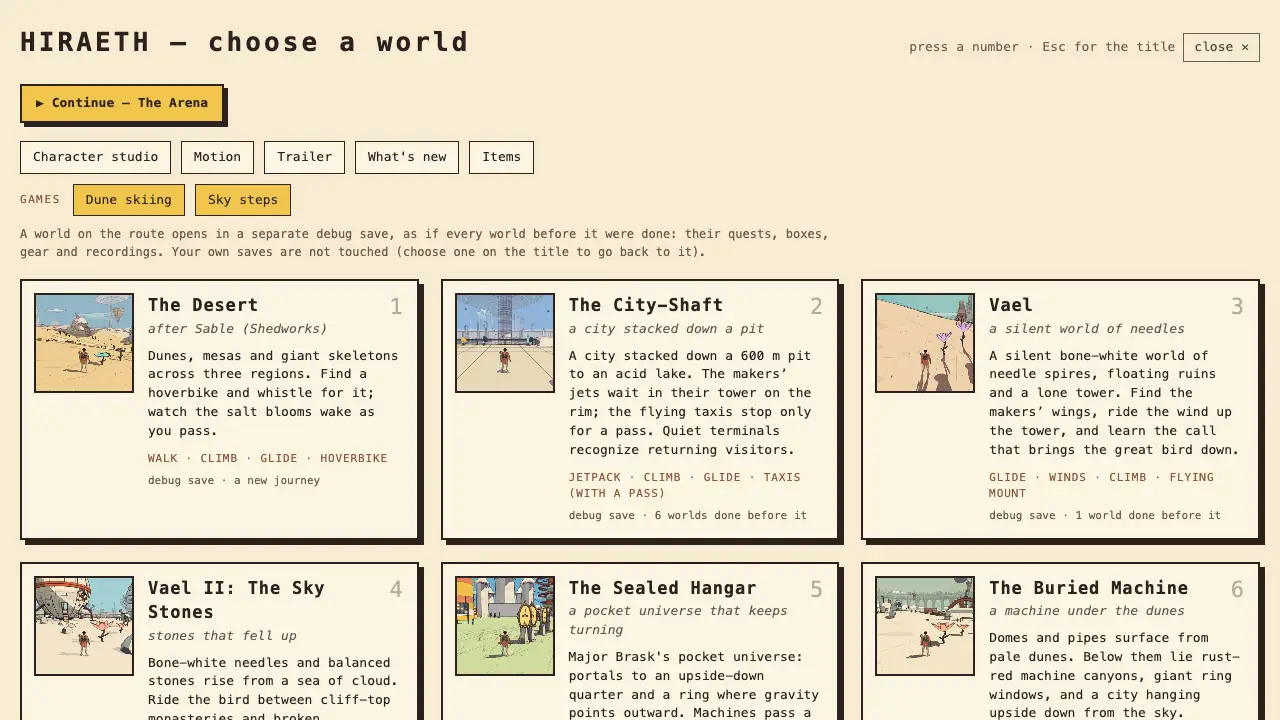
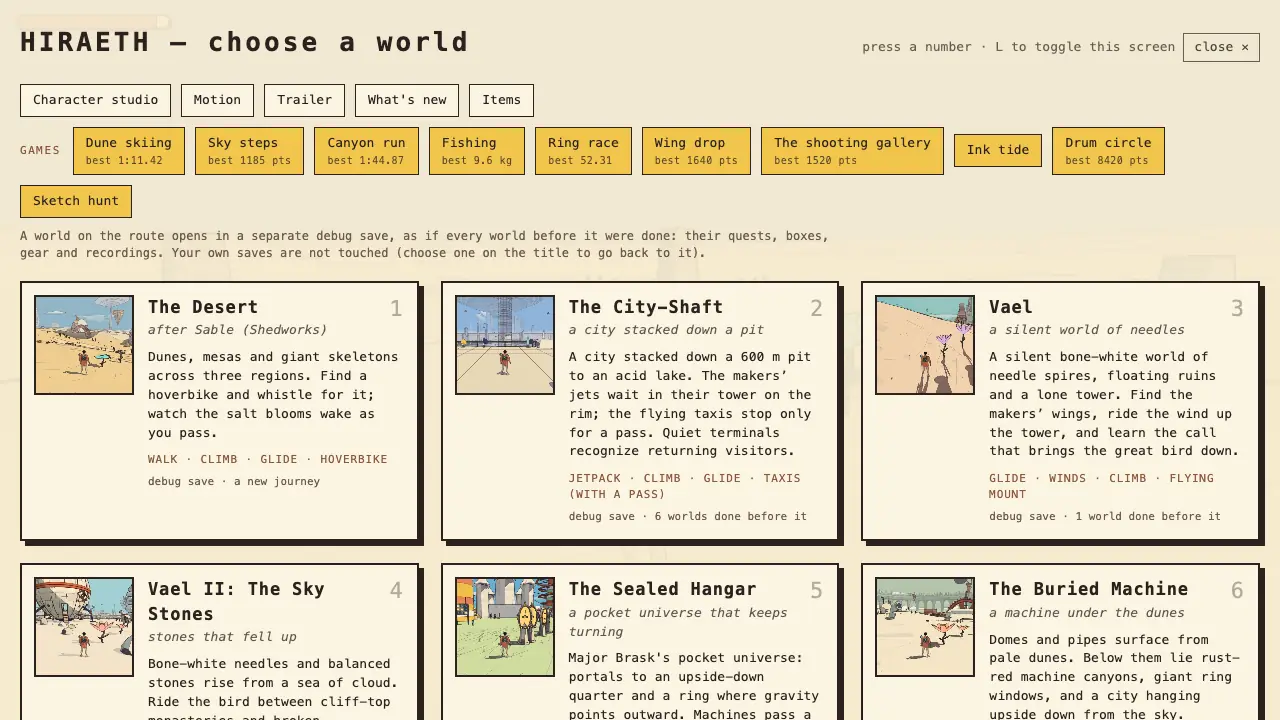
Games leftovers: arcade signs for Dune skiing and Sky steps, Ink tide foes leave no materials behind, a stronger Ring race boost, the Games row picture with bests (v0.92)
- Dune skiing's sign on the golden dune crest NW of the Desert start, Sky steps' on the
  Sky Stones' start plateau west rim (markers lists); both checked in headless Chrome:
  'play ...' wins the button from every side, Quit returns by the sign
- Telegraph: a shared outline material, its own fill released (materials.js releaseMaterial)
  with its foe; the shade's body material too; test: 200 foes leave the count flat
- Ring race boost x1.28 for x2.1 burn (was x1.22 / x2): boosting on straights with a
  quarter tank kept wins ~3.9 s of 53.9, never dry; greedy boosting runs dry; tested
- games-row picture retaken with eight bests

diff --git a/src/changelog-media.js b/src/changelog-media.js
@@ -119,7 +119,7 @@ const GIFTS = ['stun', 'fire', 'cell', 'coil', 'lantern', 'lens', 'bell', 'shell
 export const CHANGELOG_MEDIA = {
   '0.92': [
     { match: 'Games: the worlds list (Debug) has a row of small games', shots: [
-      { name: 'games-row', only: 'after', caption: 'The worlds list: the Games row under the pages', from: 'headless Chrome against this branch’s own dev server, High, 1280 × 720 (7 October), played by a script' },
+      { name: 'games-row', only: 'after', caption: 'The worlds list: the ten games under the pages, each one’s best under its name', from: 'headless Chrome against this branch’s own dev server, High, 1280 × 720 (8 October), a save with eight bests' },
       { name: 'ski-card', only: 'after', caption: 'A game’s start card: its rules, its controls (here a pad’s), the best so far', from: 'headless Chrome against this branch’s own dev server, High, 1280 × 720 (7 October), played by a script' },
       { name: 'steps-results', only: 'after', caption: 'The results: the score, how it was made, a new best stamped', from: 'headless Chrome against this branch’s own dev server, High, 1280 × 720 (7 October), played by a script' },
     ], see: 'Open the worlds list (Debug on the title, or L in play) and pick a game in the Games row, or open ?game=ski or ?game=platformer.' },
@@ -183,7 +183,7 @@ export const CHANGELOG_MEDIA = {
     { match: 'Games, a polish pass', shots: [
       { name: 'touch-ski', only: 'after', caption: 'Dune skiing on a phone held sideways: only the stick, the jump (pop) and run (the tuck)', from: 'headless Chrome against this branch’s own dev server, High, 844 × 390, Handheld, touch emulated (8 October), played by a script' },
     ], see: 'Finish a game with no score: no stamp; beat your best: “New best!”. The worlds list (Debug) shows the bests in the Games row.' },
-    { match: 'Ring race: hold Shift or RB / R1', see: '?game=rings: hold RT / R2 (Space) and add RB / R1 (Shift): about 31 m/s becomes 38, the tank lasting about 5 s instead of 11.' },
+    { match: 'Ring race: hold Shift or RB / R1', see: '?game=rings: hold RT / R2 (Space) and add RB / R1 (Shift): about 31 m/s becomes 40, the tank lasting about 5 s instead of 11.' },
     { match: 'Wing drop: after each landing', shots: [
       { name: 'wingdrop-landing', caption: 'The last drop landed: before, the camera low over the mesa behind the card; after, up behind you, the bullseye beyond, you left of the card', from: 'headless Chrome against this branch’s own dev server, High, 1280 × 720 (8 October), landings set by a script' },
       { name: 'wingdrop-star', only: 'after', caption: 'A scripted pilot (wingdrop.js starPilot) through the high star of the first thermal, flying the virtual pad', from: 'headless Chrome against this branch’s own dev server, High, 1280 × 720 (8 October), flown by a script' },
@@ -191,6 +191,15 @@ export const CHANGELOG_MEDIA = {
     { match: 'Ink tide’s longer blade is drawn longer', shots: [
       { name: 'gallery-bells', caption: 'The shooting gallery, aiming: the bells up by the valance before, down over the rails after', from: 'headless Chrome against this branch’s own dev server, High, 1280 × 720 (8 October), played by a script' },
     ], see: '?game=waves: take the Longer blade boon after the first wave and watch the blade; ?game=sketchhunt: raise the sketchbook at someone with a passer-by in between.' },
+    { match: 'Arcade signs for the last two games', shots: [
+      { name: 'sign-ski', only: 'after', caption: 'Dune skiing’s sign on the golden dune’s crest, the Desert’s skeletons and mesas beyond', from: 'headless Chrome against this branch’s own dev server, High, 1280 × 720 (8 October)' },
+      { name: 'sign-steps', only: 'after', caption: 'Sky steps’ sign on the start plateau’s west rim, a mushroom table and the monastery cliff beyond', from: 'headless Chrome against this branch’s own dev server, High, 1280 × 720 (8 October)' },
+    ], numbers: [{ title: 'Ring race: a scripted pilot’s time round the course (the boost ×1.22 for ×2 the burn before, ×1.28 for ×2.1 after)', unit: 's', better: 'lower', device: 'any (Node, 60 fps)', rows: [
+      { where: 'no boost', before: 53.9, after: 53.9 },
+      { where: 'boost on the straights, a quarter of the tank kept (never dry)', before: 50.7, after: 50.0 },
+      { where: 'boost every straight to the last drop (dry 5 s before, 4.5 after)', before: 52.5, after: 51.5 },
+    ], source: 'tests/rings.test.js (flyCourse with a boost policy)' }],
+      see: 'In the Desert, climb the tall dune north-west of the start (?level=desert, about x −108, z 124); in the Sky Stones (?level=arzach2), walk to the start plateau’s west rim.' },
   ],
   '0.91': [
     { match: 'Gadgets: things to carry besides the backpack', shots: [

diff --git a/tests/rings.test.js b/tests/rings.test.js
@@ -141,21 +141,39 @@ test('the stick: forward dives, back climbs, right banks and turns right', () =>
 });
 
 /** Fly the course with the pilot at a frame rate: the race's result. */
-function flyCourse(fps, secs = 140) {
+function flyCourse(fps, secs = 140, boost = null) {
   const dt = 1 / fps;
   const F = newFlyer(V(PAD.x, PAD.y, PAD.z), Math.atan2(RINGS[0].c.x - PAD.x, RINGS[0].c.z - PAD.z));
   const R = newRace(RINGS.length);
-  let t = 0, crashes = 0, minFuel = 1, safe = 0;
+  let t = 0, crashes = 0, minFuel = 1, safe = 0, dry = 0;
   while (!R.done && t < secs) {
     const p0 = F.pos.clone(), wasPad = F.pad;
-    flyStep(F, botInput(F, RINGS, R), dt);
+    const inp = botInput(F, RINGS, R);
+    if (boost && !F.pad) inp.boost = boost(F, inp, R);
+    flyStep(F, inp, dt);
+    if (!F.pad && F.fuel <= 0) dry += dt;
     if (wasPad && !F.pad) safe = 0.6;
     for (const e of raceStep(R, RINGS, p0, F.pos)) if (e.kind === 'pass') F.fuel = Math.min(1, F.fuel + RACE.topUp);
     if ((safe -= dt) <= 0 && hitAt(F.pos, FIELD)) crashes++;
     minFuel = Math.min(minFuel, F.fuel);
     t += dt;
   }
-  return { R, t, crashes, minFuel };
+  return { R, t, crashes, minFuel, dry };
+}
+
+/** Boost on the straights (lined up, the ring 25 m off or more) while the tank holds more than `reserve`. */
+const onStraights = (reserve) => (F, inp, R) =>
+  Math.abs(inp.x) < 0.35 && Math.abs(inp.y) < 0.35 && F.pos.distanceTo(RINGS[R.next].c) > 25 && F.fuel > reserve;
+
+for (const fps of [60, 30]) {
+  test(`the boost used wisely wins a fair margin and never runs dry; greedily it runs dry (${fps} fps)`, () => {
+    const plain = flyCourse(fps), wise = flyCourse(fps, 140, onStraights(0.25)), greedy = flyCourse(fps, 140, onStraights(0));
+    assert.ok(wise.R.done && wise.R.missed === 0 && wise.crashes === 0, 'the boosting pilot still flies it clean');
+    assert.equal(wise.dry, 0, `never dry (min ${wise.minFuel.toFixed(2)})`);
+    const gain = plain.t - wise.t;
+    assert.ok(gain > 3 && gain < 7, `boosting wins ${gain.toFixed(1)} s (${plain.t.toFixed(1)} → ${wise.t.toFixed(1)})`);
+    assert.ok(greedy.dry > 1 && greedy.t > wise.t, `to the last drop: dry ${greedy.dry.toFixed(1)} s, ${greedy.t.toFixed(1)} s`);
+  });
 }
 
 for (const fps of [120, 60, 30]) {

diff --git a/src/changelog.js b/src/changelog.js
@@ -27,6 +27,7 @@ export const CHANGELOG = [
     'Ring race: hold Shift or RB / R1 (run, on a touch screen) to boost: faster along the nose, for a heavier burn of the tank. Space or RT / R2 alone is the thrust.',
     'Wing drop: after each landing the camera rises behind you and looks down over you at the bullseye, and on the last drop you stand clear of the results. The star gates are a little wider, and a thermal’s swirls no longer smear across the view while you circle inside it.',
     'Ink tide’s longer blade is drawn longer, not only cutting further; the shooting gallery’s bells hang lower, in reach over the rails; the sketch hunt’s readout sees people standing in the way, as the sketch does; and the drum circle’s sign in the desert stands a few steps from the child by the fire, so the button plays the game.',
+    'Arcade signs for the last two games: Dune skiing’s on the crest of the tall golden dune north-west of where you wake in the Desert, Sky steps’ on the west rim of the Sky Stones’ start plateau, looking out at the stones in the cloud. The Ring race’s boost is a little stronger (40 m/s instead of 38): used on the straights with some fuel kept back, it wins about four seconds a run.',
   ] },
   { v: '0.91', date: '2026-10-08', items: [
     'Gadgets: things to carry besides the backpack, ten of them, each with its own bay in the Gadget Yard. Hold one in hand and Y / △ uses it (T, or the middle mouse button; ◆ on a touch screen). D-pad up changes it (B), and held a moment it opens a wheel: point the stick at one and let go. With nothing in hand Y / △ still sends the scout. A small card in the lower left shows what is in hand.',

diff --git a/tests/minigames.test.js b/tests/minigames.test.js
@@ -328,3 +328,20 @@ test('the course can be played through to the gate, at any frame rate, with no f
   assert.equal(PLAT_COURSE.coins.length, 40);
   assert.ok(timeBonus(30) > timeBonus(50) && timeBonus(200) === 0);
 });
+
+test('arcade signs: Dune skiing on a desert dune crest off the story\'s way, Sky steps on Vael II\'s start plateau', async () => {
+  const { TITLES } = await import('../src/levels/names.js');
+  const { desertHeight } = await import('../src/desert-landmarks.js');
+  const { STORY } = await import('../src/desert-sites.js');
+  for (const g of [ski, platformer]) {
+    assert.equal(g.markers?.length, 1, `${g.id} has its sign`);
+    for (const m of g.markers) { assert.ok(TITLES[m.level], m.level); assert.ok(m.at.every((v) => v === null || Number.isFinite(v)) && Number.isFinite(m.heading)); }
+  }
+  const [x, , z] = ski.markers[0].at, h = desertHeight(x, z);
+  const round = Array.from({ length: 16 }, (_, a) => desertHeight(x + Math.sin(a * Math.PI / 8) * 60, z + Math.cos(a * Math.PI / 8) * 60));
+  assert.ok(Math.max(...round) < h + 0.5 && Math.min(...round) < h - 12, 'on the crest, a long slope down from it');
+  assert.ok(h > 40, `${h.toFixed(1)} m up`);
+  for (const s of [{ x: 0, z: 0 }, STORY.city, STORY.camps, STORY.bike, STORY.pilgrim]) assert.ok(Math.hypot(x - s.x, z - s.z) > 120);
+  assert.equal(platformer.markers[0].level, 'arzach2');
+  assert.ok(Math.abs(platformer.markers[0].at[1] - 40.3) < 0.5, 'on the start plateau (its top: 40 m)');
+});

diff --git a/src/temples/boss.js b/src/temples/boss.js
@@ -1,5 +1,5 @@
 import * as THREE from 'three';
-import { makeMaterial } from '../materials.js';
+import { makeMaterial, releaseMaterial } from '../materials.js';
 import { registerTarget } from '../targets.js';
 import { registerInteractable, PRIORITY } from '../interact.js';
 
@@ -81,7 +81,8 @@ export function inArea(a, o, h, p) {
 export class Telegraph {
   constructor(parent, color) {
     this.fillM = makeMaterial({ color, glow: 0.7, flat: true, side: THREE.DoubleSide, key: `tele.fill.${uid++}` });
-    this.edgeM = makeMaterial({ color: '#2b211f', flat: true, side: THREE.DoubleSide, key: `tele.edge.${uid++}` });
+    // (the fill's glow is its own, the outline is everyone's)
+    this.edgeM = makeMaterial({ color: '#2b211f', flat: true, side: THREE.DoubleSide, key: 'tele.edge' });
     this.group = new THREE.Group();
     this.fill = new THREE.Mesh(new THREE.BufferGeometry(), this.fillM);
     this.edge = new THREE.Mesh(new THREE.BufferGeometry(), this.edgeM);
@@ -122,6 +123,12 @@ export class Telegraph {
     this.fillM.uniforms.uGlow.value = 0.35 + 0.5 * k + 0.15 * Math.sin(t * 22);
   }
   hide() { this.group.visible = false; }
+  /** Gone for good (its foe let go): out of the scene, its shapes and its own fill disposed. */
+  dispose() {
+    this.group.removeFromParent();
+    this.fill.geometry.dispose(); this.edge.geometry.dispose();
+    releaseMaterial(this.fillM);
+  }
 }
 
 export class Guardian {

diff --git a/tests/minigames-waves.test.js b/tests/minigames-waves.test.js
@@ -90,3 +90,17 @@ test('a game’s own foes: on whatever the Enemies setting, none from the wilds,
   const plain = new Foes({ scene: null, level: { foes: { wild: false } }, levelId: 'arena', physics: null, player: {}, settings: { enemies: 'off' } });
   assert.equal(plain.on, false);
 });
+
+test('foes made and let go leave no materials behind (200 over a long Ink tide)', async () => {
+  const THREE = await import('three');
+  const { materialCount } = await import('../src/materials.js');
+  const level = { foes: { own: true, wild: false, noInk: true } };
+  const F = new Foes({ scene: new THREE.Scene(), level, levelId: 'arena', physics: null, player: { pos: { x: 0, y: 0, z: 0 } }, settings: { enemies: 'off' } });
+  const kinds = ['blot', 'spitter', 'swarm', 'machine', 'flyer', 'shade'];
+  const wave = (n) => { const fs = []; for (let i = 0; i < n; i++) fs.push(F.add(kinds[i % kinds.length], new THREE.Vector3(i, 0, 0))); for (const f of fs) F.remove(f); };
+  wave(kinds.length);   // the shared ones made once
+  const before = materialCount();
+  wave(200);
+  assert.equal(materialCount(), before, 'the material count stays flat');
+  assert.equal(F.list.length, 0);
+});

diff --git a/src/foes.js b/src/foes.js
@@ -460,9 +460,10 @@ export class Foes {
   }
 
   remove(f) {
-    f.target?.(); f.tele?.group.removeFromParent(); f.model.group.removeFromParent(); f.model.glob?.removeFromParent(); f.model.shade?.dispose();
-    // (each foe's shapes are its own: let go with it, or every wave of a fight leaves its GPU buffers behind)
-    for (const o of [f.tele?.group, f.model.group, f.model.glob]) o?.traverse((m) => m.geometry?.dispose());
+    f.target?.(); f.tele?.dispose(); f.model.group.removeFromParent(); f.model.glob?.removeFromParent(); f.model.shade?.dispose();
+    // (each foe's shapes and its warning's glow are its own: let go with it, or every wave of a fight leaves
+    // its GPU buffers and materials behind)
+    for (const o of [f.model.group, f.model.glob]) o?.traverse((m) => m.geometry?.dispose());
     this.list.splice(this.list.indexOf(f), 1);
   }
 

diff --git a/src/materials.js b/src/materials.js
@@ -2798,8 +2798,19 @@ export function makeMaterial(o) {
     mat.uniforms.uDissolveColor = { value: new THREE.Color(o.dissolve === true ? '#fff4d6' : o.dissolve) };
   }
   cache.set(key, mat);
+  mat.userData.cacheKey = key;
   return mat;
 }
+
+/** Let go of a material made for one thing alone (a key of its own: a foe's floor warning, a shade's body):
+ *  out of the cache and disposed, so things made and let go over a long run leave no materials behind. */
+export function releaseMaterial(mat) {
+  if (!mat) return;
+  if (cache.get(mat.userData?.cacheKey) === mat) cache.delete(mat.userData.cacheKey);
+  mat.dispose?.();
+}
+/** How many materials the cache holds (the tests: flat over foes made and let go). */
+export const materialCount = () => cache.size;
 
 
 /** Tag only the player's materials, preserving live shared shader uniforms. */

diff --git a/src/minigames/rings.js b/src/minigames/rings.js
@@ -25,8 +25,8 @@ export const RACE = {
   topUp: 0.28,           // of the tank a ring gives back
   respawnFuel: 0.4,      // at least this much after a crash (the race can always be finished)
   boost: true,           // race-tuned: the jets' boosted speed all the way (JET.speed × JET.boost)
-  surge: 1.22,           // the boost button (Shift, RB / R1, L3) held on top: this much faster along the nose…
-  surgeBurn: 2.0,        // …for this many times the burn
+  surge: 1.28,           // the boost button (Shift, RB / R1, L3) held on top: this much faster along the nose…
+  surgeBurn: 2.1,        // …for this many times the burn
   gravity: 32,
   body: 0.7,             // m, the traveller's reach for a crash
 };

diff --git a/src/minigames/platformer.js b/src/minigames/platformer.js
@@ -530,6 +530,9 @@ export default {
   score: { kind: 'points', unit: 'pts' },
   hud: { timer: true, score: true },
   color: '#71d7cf',
+  // (its arcade sign on Vael II: the start plateau's west rim, looking out at the stone columns and tables in
+  // the cloud, facing back across the plateau; the height given: the ground from high up is not the plateau's there)
+  markers: [{ level: 'arzach2', at: [-52, 40.33, -61], heading: Math.atan2(52, 61) }],
   build: buildPlatformer,
   start,
 };

diff --git a/src/shade.js b/src/shade.js
@@ -1,5 +1,5 @@
 import * as THREE from 'three';
-import { makeMaterial } from './materials.js';
+import { makeMaterial, releaseMaterial } from './materials.js';
 import { buildCharacter } from './player.js';
 import { Humanoid } from './humanoid.js';
 import { Animator } from './animator.js';
@@ -102,5 +102,5 @@ export class ShadeBody {
     }
   }
 
-  dispose() { this.group.removeFromParent(); }
+  dispose() { this.group.removeFromParent(); releaseMaterial(this.mat); }
 }

diff --git a/src/minigames/ski.js b/src/minigames/ski.js
@@ -490,6 +490,9 @@ export default {
   score: { kind: 'time' },
   hud: { timer: true },
   color: '#d9643a',
+  // (its arcade sign in the desert: on the crest of the tall golden dune north-west of where you wake, ~47 m
+  // up and off the story's way, facing back toward the start)
+  markers: [{ level: 'desert', at: [-108, null, 124], heading: Math.atan2(108, -124) }],
   build: buildSki,
   start,
 };
